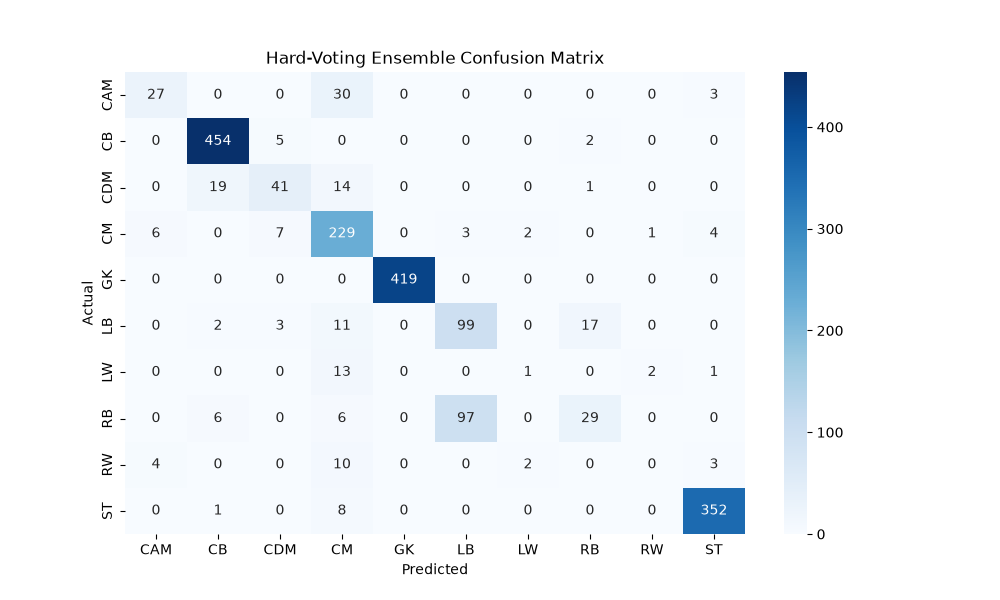
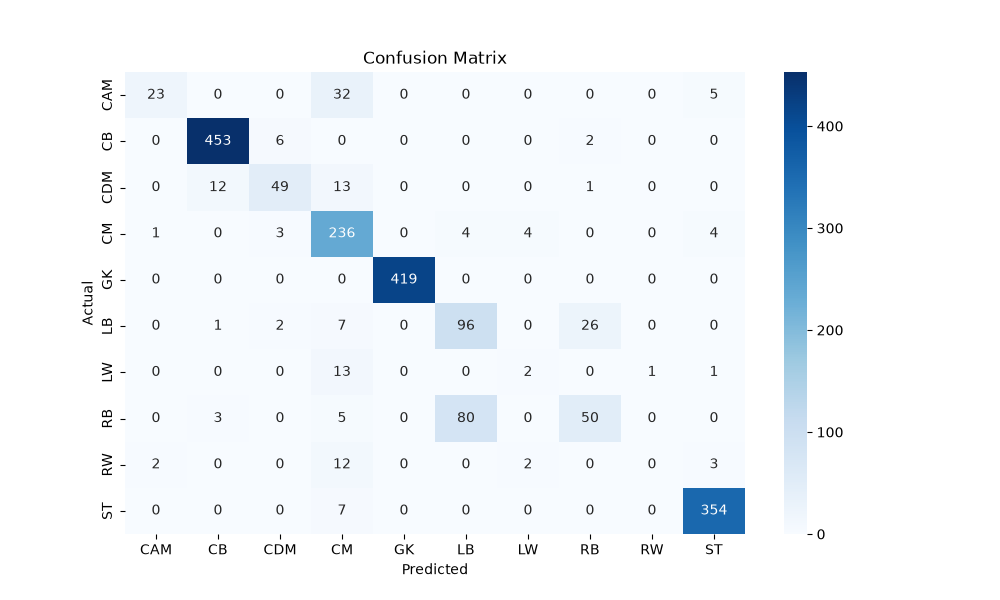
Add Model Version 1 README and ensemble model file
- Created README.md for Model Version 1 detailing evaluation summary, saved models, ensemble configuration, class-level results, and confusion matrix figures.
- Added serialized ensemble model file (ensemble_model_v1.pkl) for future use.

diff --git a/scripts/07-ensemble.py b/scripts/07-ensemble.py
@@ -8,75 +8,96 @@ import os
 
 import joblib
 import matplotlib.pyplot as plt
-import numpy as np
 import pandas as pd
 import seaborn as sns
+from sklearn.ensemble import RandomForestClassifier, VotingClassifier
+from sklearn.linear_model import LogisticRegression
 from sklearn.metrics import accuracy_score, classification_report, confusion_matrix
 from sklearn.metrics import f1_score, precision_score, recall_score
+from sklearn.model_selection import GridSearchCV
+from sklearn.neighbors import KNeighborsClassifier
+from sklearn.pipeline import Pipeline
+from sklearn.preprocessing import StandardScaler
+from sklearn.svm import SVC
 
-# Load the pre-processed testing dataset
+# Load the pre-processed training and testing datasets
+train_df = pd.read_csv('data/processed/train_data.csv')
 test_df = pd.read_csv('data/processed/test_data.csv')
 
-# Separate features and target (team_position) variable for testing dataset
+# Separate features and target (team_position) variable for training and testing datasets
+X_train = train_df.drop('team_position', axis=1)
+y_train = train_df['team_position']
 X_test = test_df.drop('team_position', axis=1)
 y_test = test_df['team_position']
 
-# Load the saved models from the models directory
-model_paths = {
-    'KNN': './models/v1/knn_model_v1.pkl',
-    'Logistic Regression': './models/v1/logistic_regression_model_v1.pkl',
-    'Random Forest': './models/v1/random_forest_model_v1.pkl',
-    'SVM': './models/v1/svm_model_v1.pkl',
+# Create a pipeline that includes data scaling and a soft-voting ensemble classifier
+ensemble = VotingClassifier(
+    estimators=[
+        ('knn', KNeighborsClassifier(n_neighbors=4, metric='manhattan', weights='uniform')),
+        ('logistic', LogisticRegression(max_iter=2000, C=14, solver='lbfgs')),
+        ('random_forest', RandomForestClassifier(max_depth=None, min_samples_leaf=1, n_estimators=900)),
+        ('svm', SVC(C=17, gamma='scale', kernel='rbf', probability=True)),
+    ],
+    voting='soft',
+)
+pipeline = Pipeline([
+    ('scaler', StandardScaler()),
+    ('ensemble', ensemble),
+])
+
+# Define the parameter grid for hyperparameter tuning
+param_grid = {
+    'ensemble__weights': [
+        (1, 1, 1, 1),
+        (2, 1, 1, 1),
+        (1, 2, 1, 1),
+        (1, 1, 2, 1),
+        (1, 1, 1, 2),
+    ],
 }
-saved_models = {
-    model_name: joblib.load(model_path)
-    for model_name, model_path in model_paths.items()
-}
 
-# Generate predictions with each saved model
-model_predictions = {
-    model_name: model.predict(X_test)
-    for model_name, model in saved_models.items()
-}
+# Perform grid search with cross-validation
+grid_search = GridSearchCV(pipeline, param_grid, cv=5, scoring='f1_macro', n_jobs=-1)
 
-# Combine the saved model predictions using hard voting
-prediction_matrix = np.array(list(model_predictions.values()))
-ensemble_predictions = pd.DataFrame(prediction_matrix).mode(axis=0).iloc[0].to_numpy()
+# Fit the grid search on the training data
+grid_search.fit(X_train, y_train)
 
-# Evaluate each saved model and the hard-voting ensemble on the test set
-print('=============================================================\nSaved Model Results:')
-for model_name, y_pred in model_predictions.items():
-    print(f'\n{model_name}:')
-    print('Accuracy: {:.2f}'.format(accuracy_score(y_test, y_pred)))
-    print('Precision: {:.2f}'.format(precision_score(y_test, y_pred, average='macro', zero_division=0)))
-    print('Recall: {:.2f}'.format(recall_score(y_test, y_pred, average='macro', zero_division=0)))
-    print('F1 Score: {:.2f}'.format(f1_score(y_test, y_pred, average='macro', zero_division=0)))
-    print('Confusion Matrix:\n', confusion_matrix(y_test, y_pred))
-    print('Classification Report:\n', classification_report(y_test, y_pred, zero_division=0))
+# Get the best model from the grid search
+best_model = grid_search.best_estimator_
 
-print('\nHard-Voting Ensemble:')
-print('Accuracy: {:.2f}'.format(accuracy_score(y_test, ensemble_predictions)))
-print('Precision: {:.2f}'.format(precision_score(y_test, ensemble_predictions, average='macro', zero_division=0)))
-print('Recall: {:.2f}'.format(recall_score(y_test, ensemble_predictions, average='macro', zero_division=0)))
-print('F1 Score: {:.2f}'.format(f1_score(y_test, ensemble_predictions, average='macro', zero_division=0)))
-print('Confusion Matrix:\n', confusion_matrix(y_test, ensemble_predictions))
-print('Classification Report:\n', classification_report(y_test, ensemble_predictions, zero_division=0))
+print('=============================================================\nGrid Search Results:')
+print('Best parameters found: ', grid_search.best_params_)
+print('Best cross-validation F1 score: {:.2f}'.format(grid_search.best_score_))
 
-# Graphical representation of the ensemble results (optional)
+# Evaluate the best model on the test set
+y_pred = best_model.predict(X_test)
+print('=============================================================\nEvaluating the best model on the test set:')
+print('Accuracy: {:.2f}'.format(accuracy_score(y_test, y_pred)))
+print('Precision: {:.2f}'.format(precision_score(y_test, y_pred, average='macro')))
+print('Recall: {:.2f}'.format(recall_score(y_test, y_pred, average='macro')))
+print('F1 Score: {:.2f}'.format(f1_score(y_test, y_pred, average='macro')))
+print('Confusion Matrix:\n', confusion_matrix(y_test, y_pred))
+print('Classification Report:\n', classification_report(y_test, y_pred))
+
+# Save the best model to a file for future use
+os.makedirs('models/v1', exist_ok=True)
+joblib.dump(best_model, 'models/v1/ensemble_model_v1.pkl')
+
+# Graphical representation of the results (optional)
 print('=============================================================\nGraphical representation of the results:')
 plt.figure(figsize=(10, 6))
 # Plotting the confusion matrix
 sns.heatmap(
-    confusion_matrix(y_test, ensemble_predictions),
+    confusion_matrix(y_test, y_pred),
     annot=True,
     fmt='d',
     cmap='Blues',
-    xticklabels=sorted(y_test.unique()),
-    yticklabels=sorted(y_test.unique()),
+    xticklabels=[str(label) for label in best_model.classes_],
+    yticklabels=[str(label) for label in best_model.classes_],
 )
-plt.title('Hard-Voting Ensemble Confusion Matrix')
+plt.title('Confusion Matrix')
 plt.xlabel('Predicted')
 plt.ylabel('Actual')
-os.makedirs('figures', exist_ok=True)
+os.makedirs('figures/v1', exist_ok=True)
 plt.savefig('figures/v1/ensemble_v1_confusion_matrix.png')
 plt.show()

diff --git a/scripts/05-logistic-regression.py b/scripts/05-logistic-regression.py
@@ -27,7 +27,7 @@ y_train = train_df['team_position']
 X_test = test_df.drop('team_position', axis=1)
 y_test = test_df['team_position']
 
-# Create a pipeline that includes data scaling and Logistic Regression classifier
+# Create a pipeline that includes data scaling and Logistic Resgression classifier
 pipeline = Pipeline([
     ('scaler', StandardScaler()),
     ('logistic', LogisticRegression(max_iter=2000)),
@@ -83,5 +83,5 @@ plt.title('Confusion Matrix')
 plt.xlabel('Predicted')
 plt.ylabel('Actual')
 os.makedirs('figures', exist_ok=True)
-plt.savefig('figures/v1/logistic_regression_v1_confusion_matrix.png')
+plt.savefig('figures/logistic_regression_v1_confusion_matrix.png')
 plt.show()

diff --git a/scripts/06-random-forest.py b/scripts/06-random-forest.py
@@ -60,7 +60,7 @@ print('Confusion Matrix:\n', confusion_matrix(y_test, y_pred))
 print('Classification Report:\n', classification_report(y_test, y_pred))
 
 # Save the best model to a file for future use
-os.makedirs('models', exist_ok=True)
+os.makedirs('models/v1', exist_ok=True)
 joblib.dump(best_model, 'models/v1/random_forest_model_v1.pkl')
 
 # Graphical representation of the results (optional)
@@ -78,6 +78,6 @@ sns.heatmap(
 plt.title('Confusion Matrix')
 plt.xlabel('Predicted')
 plt.ylabel('Actual')
-os.makedirs('figures', exist_ok=True)
+os.makedirs('figures/v1', exist_ok=True)
 plt.savefig('figures/v1/random_forest_v1_confusion_matrix.png')
 plt.show()
